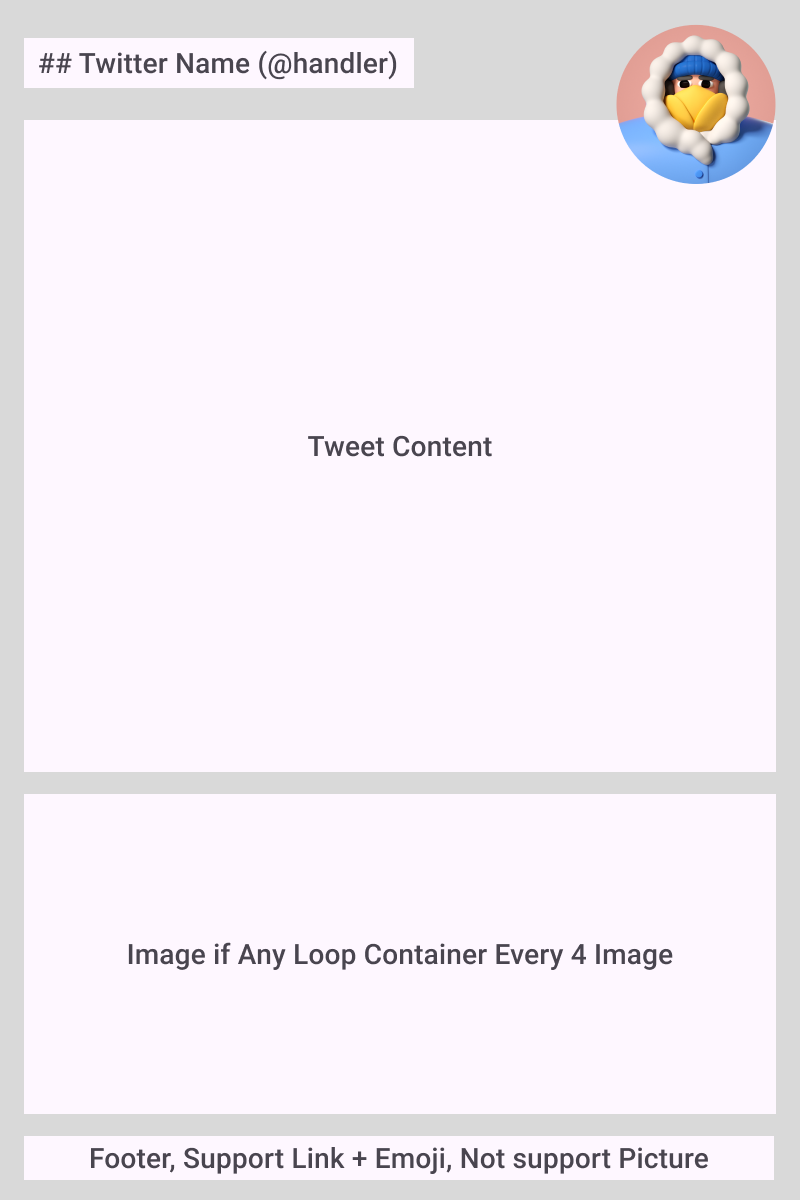
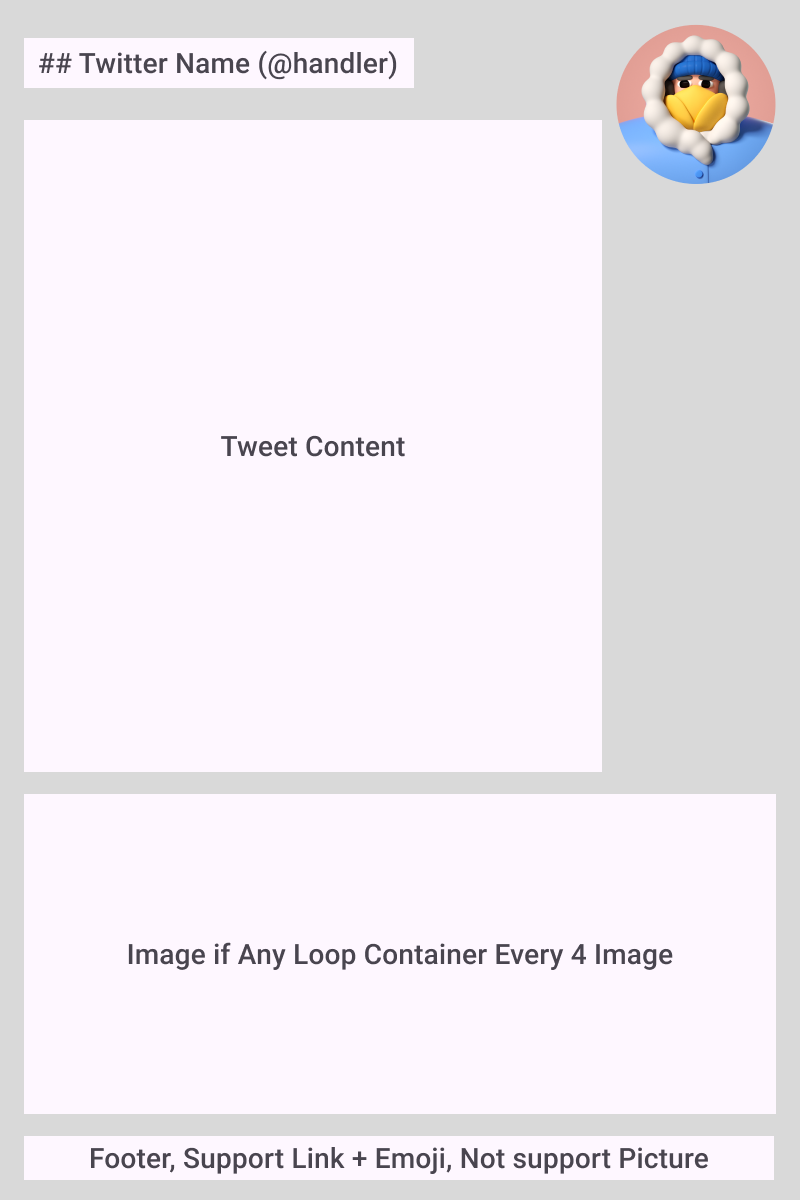
feat: adjust author heading size in discord container v2
Sorry i revert the heading to h3, its too big for some twittername / handle eg. pcrd jp

Changed region(s): [[0.75, 0.0925, 0.9688, 0.6475], [0.2812, 0.3392, 0.625, 0.4008]]

diff --git a/kuri.py b/kuri.py
@@ -1282,7 +1282,8 @@ def generate_discord_container_v2_data(
     )
 
     # I feel its better use small heading ? instead normal text, to emphasize like old embed ?
-    author_line = f"## **[{author_name}]({author_url})**" if author_name else ""
+    # Scrap it, its too big for H2
+    author_line = f"### **[{author_name}]({author_url})**" if author_name else ""
 
     cleaned = ""
     if title:
